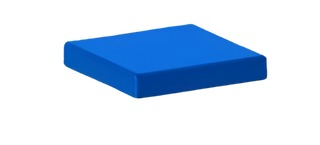
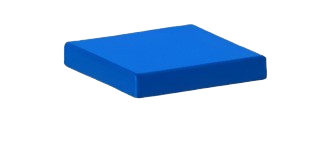
Update store.css again

diff --git a/clpmonitor/src/main/resources/static/css/store.css b/clpmonitor/src/main/resources/static/css/store.css
@@ -524,30 +524,7 @@ img[src*="#"] {
     transform: scaleX(-1);
 }
 
-/* Hierarquia de z-index específica */
-#tampa {
-    z-index: 0;
-}
 
-[id^="padrao"] {
-    z-index: 70;
-}
-
-[id^="lamina"][id$="-1"] {
-    z-index: 20;
-}
-
-[id^="lamina"][id$="-2"] {
-    z-index: 30;
-}
-
-[id^="lamina"][id$="-3"] {
-    z-index: 10;
-}
-
-[id^="bloco"][id$="-3"] {
-    z-index: 1;
-}
 
 /* Botão de atualização */
 #btnAtualizarVisualizacao {
@@ -718,16 +695,18 @@ img[src*="#"] {
 
 /* Ordem de empilhamento dos blocos */
 .bloco-view:nth-child(1) { z-index: 3; }
-.bloco-view:nth-child(2) { z-index: 2; }
+/*.bloco-view:nth-child(2) { z-index: 2; } */
 .bloco-view:nth-child(3) { z-index: 1; }
 
 /* Estilos para a tampa */
+
+
 .tampa-view {
     position: absolute;
-    bottom: 100%;       /* cola no topo do último bloco */
+    bottom: calc(100% - 115px); /* "cola" no bloco, ajuste fino */
     left: 0;
     width: 100%;
-    z-index: 999;       /* tampa sempre acima */
+    z-index: 999;
     display: flex;
     justify-content: center;
 }
